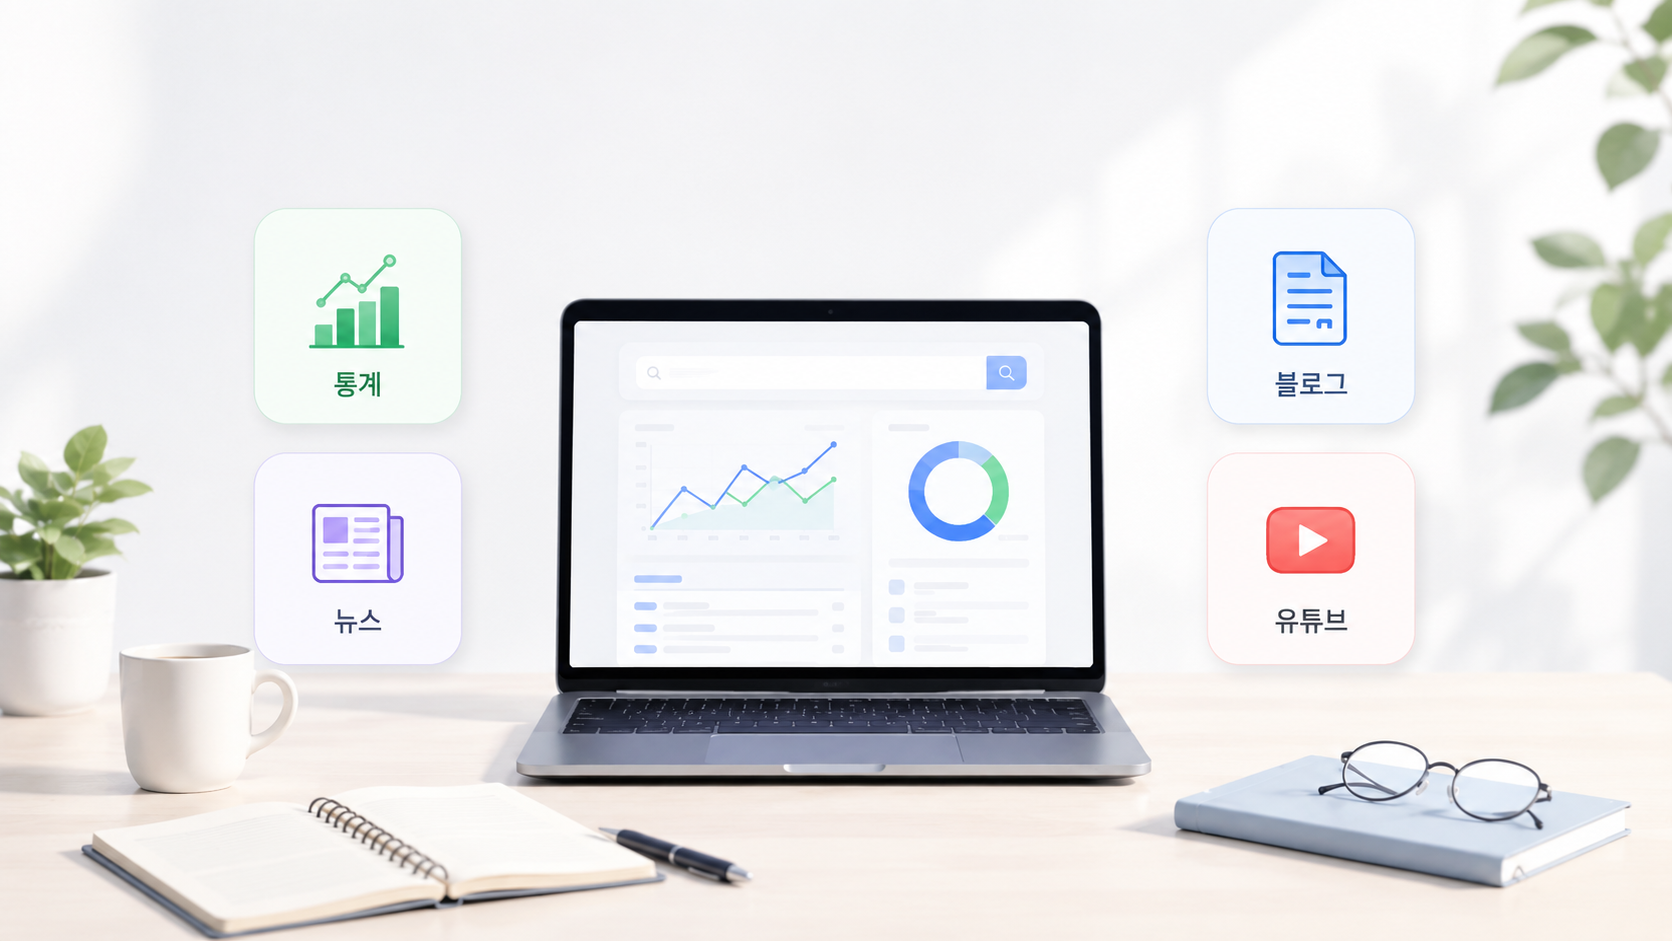
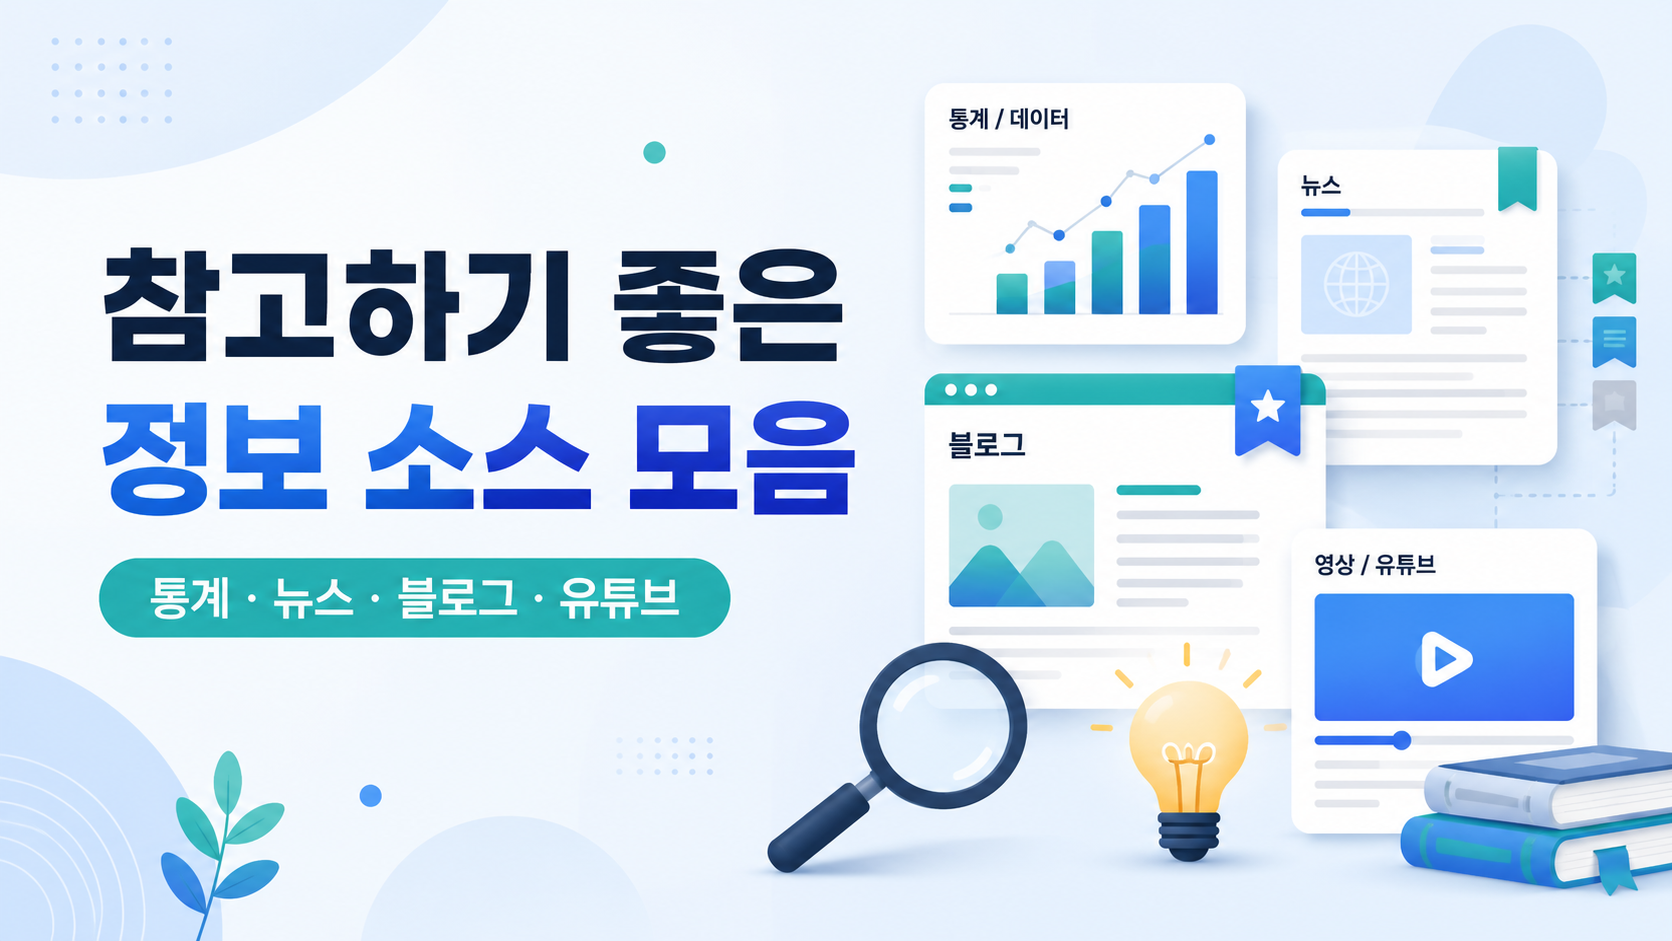
feat(content): 정보 소스 추천 글 업데이트

diff --git a/src/content/blog/recommended-info-sources.md b/src/content/blog/recommended-info-sources.md
@@ -1,29 +1,27 @@
 ---
-title: '정보 소스 모음'
+title: '참고하기 좋은 정보 소스 모음'
 description: '참고하기 좋은 정보 소스들을 정리했습니다.'
 pubDate: 'Jul 21 2026'
 heroImage: '../../assets/recommended-info-sources.png'
+updatedDate: 'Jul 26 2026'
 ---
 
-### 통계
+##### 통계
 
 - [네이버 데이터랩](https://datalab.naver.com)
 - [Google Trends](https://trends.google.co.kr)
 - [npm trends](https://npmtrends.com)
 - [Stack Overflow Annual Developer Survey](https://survey.stackoverflow.co)
 
----
-
-### 뉴스
+##### 뉴스
 
 - [GeekNews](https://news.hada.io)
 - [Hacker News](https://news.ycombinator.com)
 
----
-
-### 블로그 
+##### 블로그 
 
 - [기억보단 기록을](https://jojoldu.tistory.com)
+- [김태호님 블로그](https://taeho.io/)
 - [김종민님 블로그](https://blog.cmiscm.com)
 - [당근 기술 블로그](https://medium.com/daangn)
 - [메르님 블로그](https://blog.naver.com/ranto28)
@@ -39,10 +37,10 @@ heroImage: '../../assets/recommended-info-sources.png'
 - [toss tech](https://toss.tech)
 - [WIX Blog](https://ko.wix.com/blog)
 - [YOGIYO Tech Blog - 요기요 기술블로그](https://techblog.yogiyo.co.kr)
+- [아임웹 블로그](https://imweb.me/blog)
+- [천인우님 블로그](https://brunch.co.kr/@lucascheon)
 
----
-
-### 유튜브
+##### 유튜브
 
 - [14F 일사에프](https://www.youtube.com/@14FMBC)
 - [44BITS](https://www.youtube.com/@44BITSTV)
